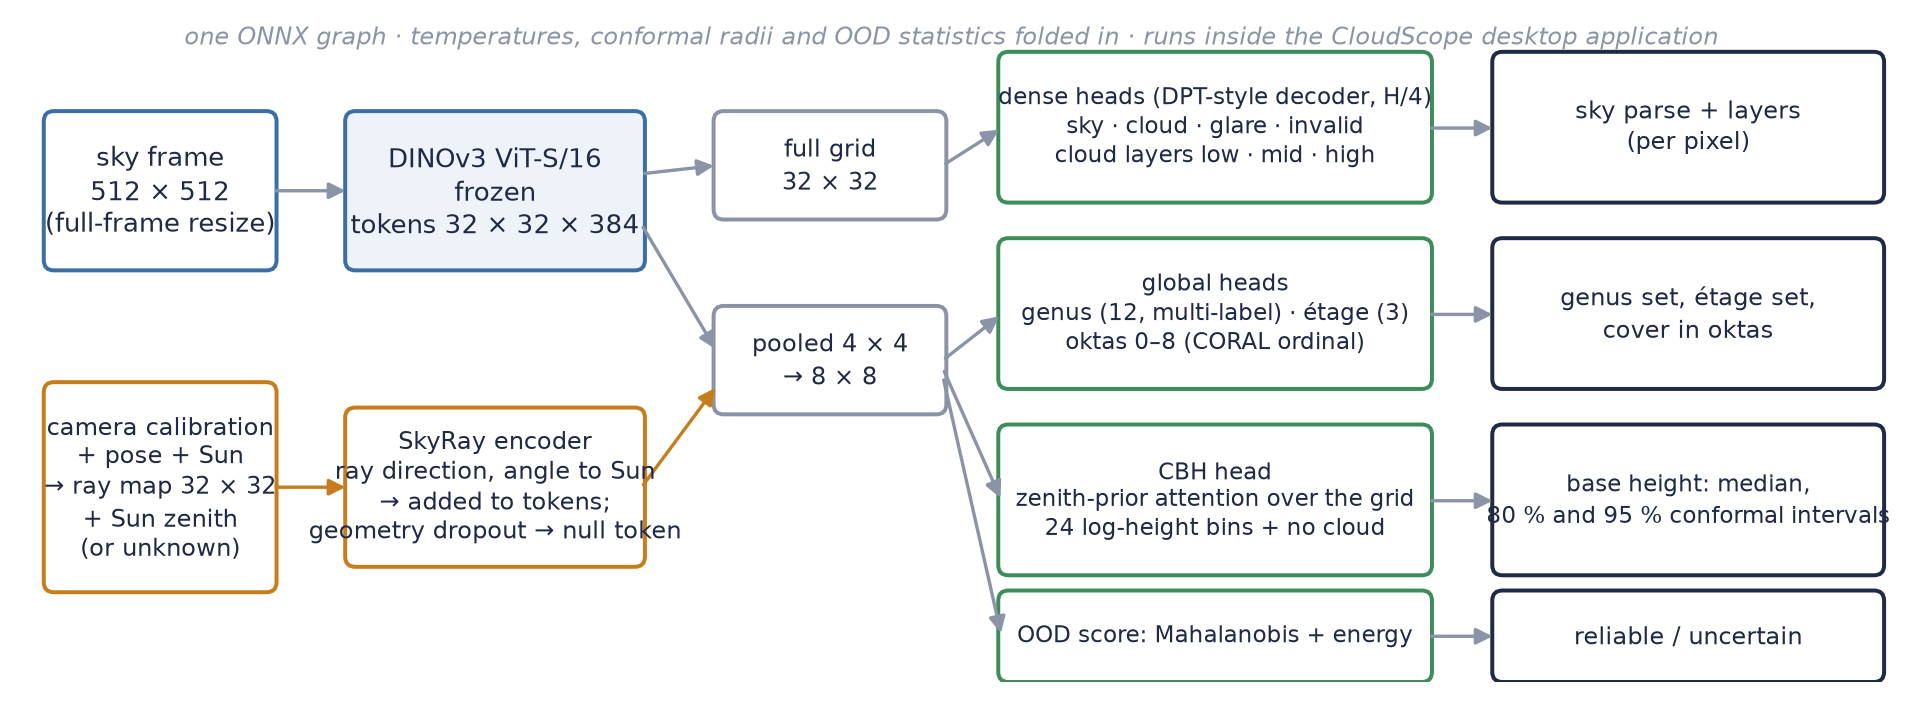
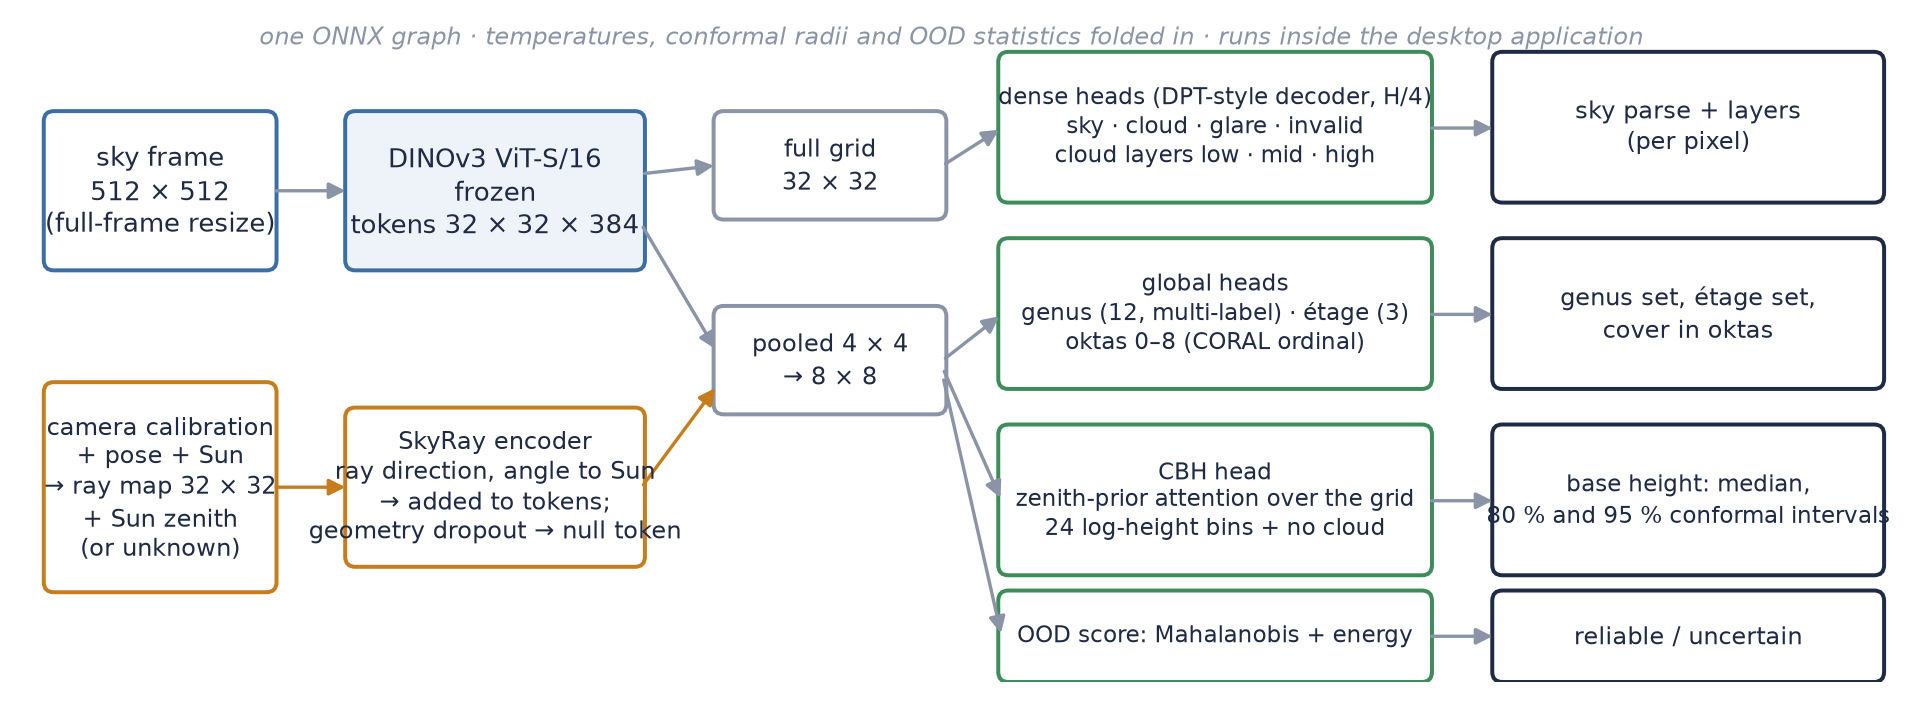
P099: the paper no longer names the desktop application; checklist item on repository visibility during review

Changed region(s): [[0.0922, 0.0312, 0.8916, 0.0625]]

diff --git a/scripts/paper_figures.py b/scripts/paper_figures.py
@@ -85,7 +85,7 @@ def architecture(out: Path) -> None:
     for y in (3.27, 2.17, 1.07, 0.27):
         _arrow(ax, (hx + hw, y), (ox, y))
     ax.set_xlim(0, ox + ow + 0.1)
-    ax.text((ox + ow) / 2, 3.8, "one ONNX graph · temperatures, conformal radii and OOD statistics folded in · runs inside the CloudScope desktop application",  # noqa: E501
+    ax.text((ox + ow) / 2, 3.8, "one ONNX graph · temperatures, conformal radii and OOD statistics folded in · runs inside the desktop application",  # noqa: E501
             ha="center", va="center", fontsize=7.8, color=GREY, style="italic")
     fig.savefig(out, dpi=220, bbox_inches="tight")
     plt.close(fig)

diff --git a/scripts/reproduce_tables.py b/scripts/reproduce_tables.py
@@ -230,7 +230,8 @@ def main() -> int:
     # ---- Table 7: efficiency (P094)
     try:
         ef = json.loads((result_file("efficiency.json")).read_text(encoding="utf-8"))
-        t7 = [[k, f"{v['median_ms']:.1f}", f"{v['p95_ms']:.1f}"] for k, v in ef["latency"].items() if isinstance(v, dict)]
+        t7 = [[k.replace("CloudScope", "desktop application"), f"{v['median_ms']:.1f}", f"{v['p95_ms']:.1f}"]
+              for k, v in ef["latency"].items() if isinstance(v, dict)]  # the host app is not named in review
         t7.append(["Raspberry Pi 5", "–", "–"])
         table(
             "tab7_efficiency",

diff --git a/paper/tables/tab7_efficiency.tex b/paper/tables/tab7_efficiency.tex
@@ -9,8 +9,8 @@ pytorch fp32, RTX 4050, batch 1 & 19.5 & 23.7 \\
 pytorch autocast fp16, RTX 4050, batch 1 & 15.0 & 16.2 \\
 pytorch fp32, RTX 4050, batch 8 (per frame) & 16.5 & 16.5 \\
 onnx runtime CPU, batch 1 & 144.1 & 149.4 \\
-CloudScope ONNX Runtime DirectML (NVIDIA GeForce RTX 4050 Laptop GPU), batch 1 & 29.2 & 33.0 \\
-CloudScope ONNX Runtime CPU, batch 1 & 148.7 & 153.7 \\
+desktop application ONNX Runtime DirectML (NVIDIA GeForce RTX 4050 Laptop GPU), batch 1 & 29.2 & 33.0 \\
+desktop application ONNX Runtime CPU, batch 1 & 148.7 & 153.7 \\
 Raspberry Pi 5 & – & – \\
 \bottomrule
 \end{tabular}

diff --git a/docs/phases/P099-internal-review.md b/docs/phases/P099-internal-review.md
@@ -39,6 +39,10 @@ Four venues to confirm from the proceedings pages before submission; no entry is
   "BLR01" in the data section — **decide**: keep (a city is not identifying) or write "a tropical city".
 - [ ] Repository and release links withheld until camera-ready; the supplementary must be anonymised (strip the
   GitHub user from the zip, the git history and `PROJECT_STATE.md`).
+- [ ] **Decide (owner):** the public GitHub repositories are named STRATIA and CloudScope under the author's account
+  and a reviewer who searches the model's name can find them. Either make both private for the review period
+  (16 Nov 2026 until the decision) or accept the risk. The paper names neither repository nor the application
+  (the efficiency table and the architecture figure say "desktop application" since 2026-11-06).
 - [x] Acknowledgements absent.
 
 ### Supplementary

diff --git a/paper/tables/tab7_efficiency.md b/paper/tables/tab7_efficiency.md
@@ -6,6 +6,6 @@
 | pytorch autocast fp16, RTX 4050, batch 1 | 15.0 | 16.2 |
 | pytorch fp32, RTX 4050, batch 8 (per frame) | 16.5 | 16.5 |
 | onnx runtime CPU, batch 1 | 144.1 | 149.4 |
-| CloudScope ONNX Runtime DirectML (NVIDIA GeForce RTX 4050 Laptop GPU), batch 1 | 29.2 | 33.0 |
-| CloudScope ONNX Runtime CPU, batch 1 | 148.7 | 153.7 |
+| desktop application ONNX Runtime DirectML (NVIDIA GeForce RTX 4050 Laptop GPU), batch 1 | 29.2 | 33.0 |
+| desktop application ONNX Runtime CPU, batch 1 | 148.7 | 153.7 |
 | Raspberry Pi 5 | – | – |
